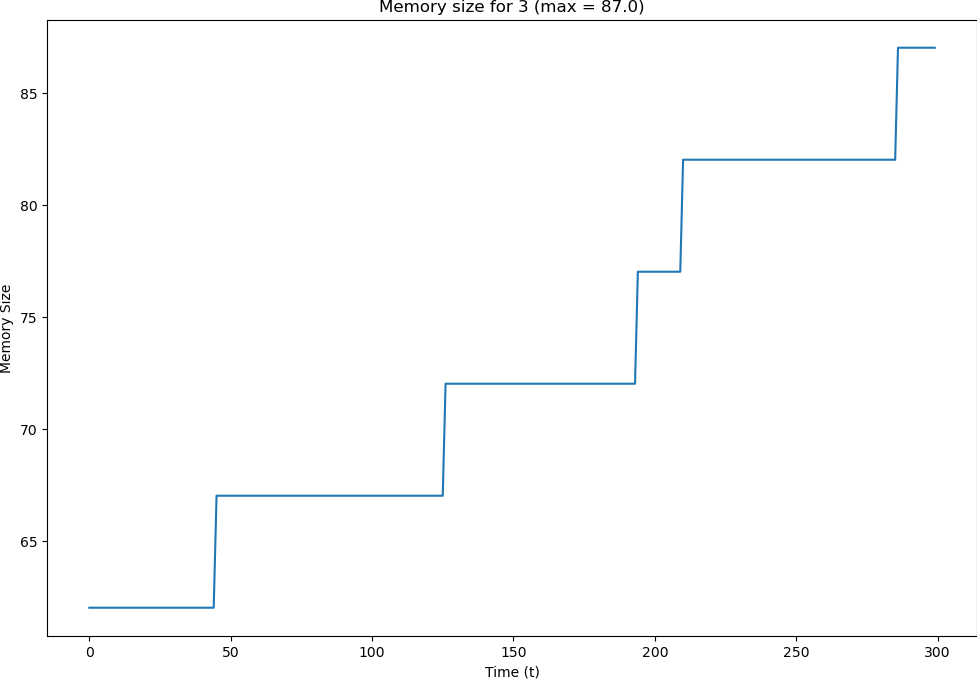
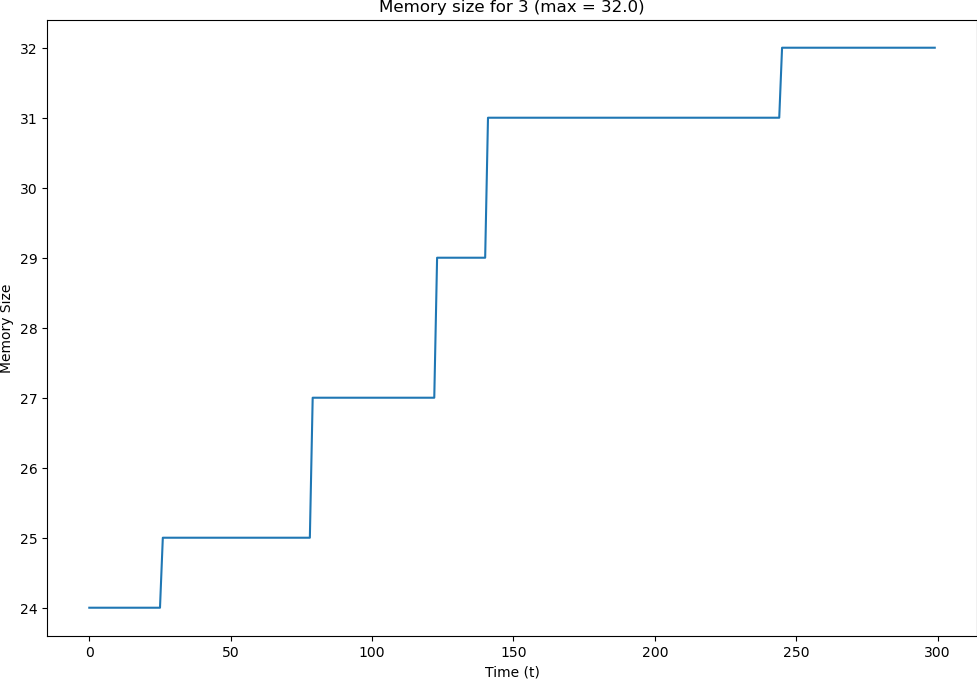
optimised the communications

diff --git a/memory_sarsa/environment.py b/memory_sarsa/environment.py
@@ -987,21 +987,22 @@ class Env:
         
         return graph_structure
     
-    def update_memories(self) -> None:
+    def update_memories(self, update_epoch) -> None:
         # Update central memory
         memories = []
         for node in self.graph.nodes:
-            if not node.startswith('in'):
+            if not node.startswith('in') and self.graph.nodes[node].intersection.i% update_epoch == 0 \
+               and self.comm_based == True and self.graph.nodes[node].intersection.is_mem_based == True:
                 table=self.graph.nodes[node].intersection.mem.short_term_Q
                 memories.append(table)
-
-        self.comm.update_central_memory(memories)
-        
-        #Update local memories
-        for node in self.graph.nodes:
-            if not node.startswith('in'):
-                self.graph.nodes[node].intersection.mem.short_term_Q = self.comm.update_local_memory(self.graph.nodes[node].intersection.mem.short_term_Q, update_type = self.update_type)
-                
+        if len(memories) > 0:
+            self.comm.update_central_memory(memories)
+            
+            #Update local memories
+            for node in self.graph.nodes:
+                if not node.startswith('in'):
+                    self.graph.nodes[node].intersection.mem.short_term_Q = self.comm.update_local_memory(self.graph.nodes[node].intersection.mem.short_term_Q, update_type = self.update_type)
+                    
 
     def SARSA_run(self, n_episodes):
         for _ in range(n_episodes):
@@ -1092,11 +1093,12 @@ class Env:
                         #if done, gather all departing vehicles count
                         self.departing_metrics_result[node] = self.graph.nodes[node].intersection.departing_metrics
                 
-                if n_iter % update_epoch == 0 and self.comm_based == True and self.graph.nodes[node].intersection.is_mem_based == True:
-                    #time to update memory tables
-                    self.update_memories()
+                # if n_iter % update_epoch == 0 and self.comm_based == True and self.graph.nodes[node].intersection.is_mem_based == True:
+                #     #time to update memory tables
+                #     self.update_memories()
                             
-                n_iter += 1
+                # n_iter += 1
+            self.update_memories(update_epoch=update_epoch)
             self.arriving_vehicles.append(self.compute_arriving_vehicles())
 
     def plot_env(self):

diff --git a/memory_sarsa/memory.py b/memory_sarsa/memory.py
@@ -170,13 +170,13 @@ class Memory():
             shift_amount = all_equiv_states[nearby_state]
             action = nearby_table.loc[nearby_state]['a']
             reward = nearby_table.loc[nearby_state]['R']
-            action = self.get_shifted_action(action, shift_amount)
+            action = self.get_shifted_action(action, -shift_amount)
         else:
             nearby_state,action = self.short_term_Q.loc[matching_states_list].stack().idxmax()
             shift_amount = all_equiv_states[nearby_state]
             reward = self.short_term_Q.loc[nearby_state, action]
             action = self.parse_formatted_action(action)
-            action = self.get_shifted_action(action, shift_amount)
+            action = self.get_shifted_action(action, -shift_amount)
         
         return nearby_state, action, reward, in_memory, shift_amount
 
